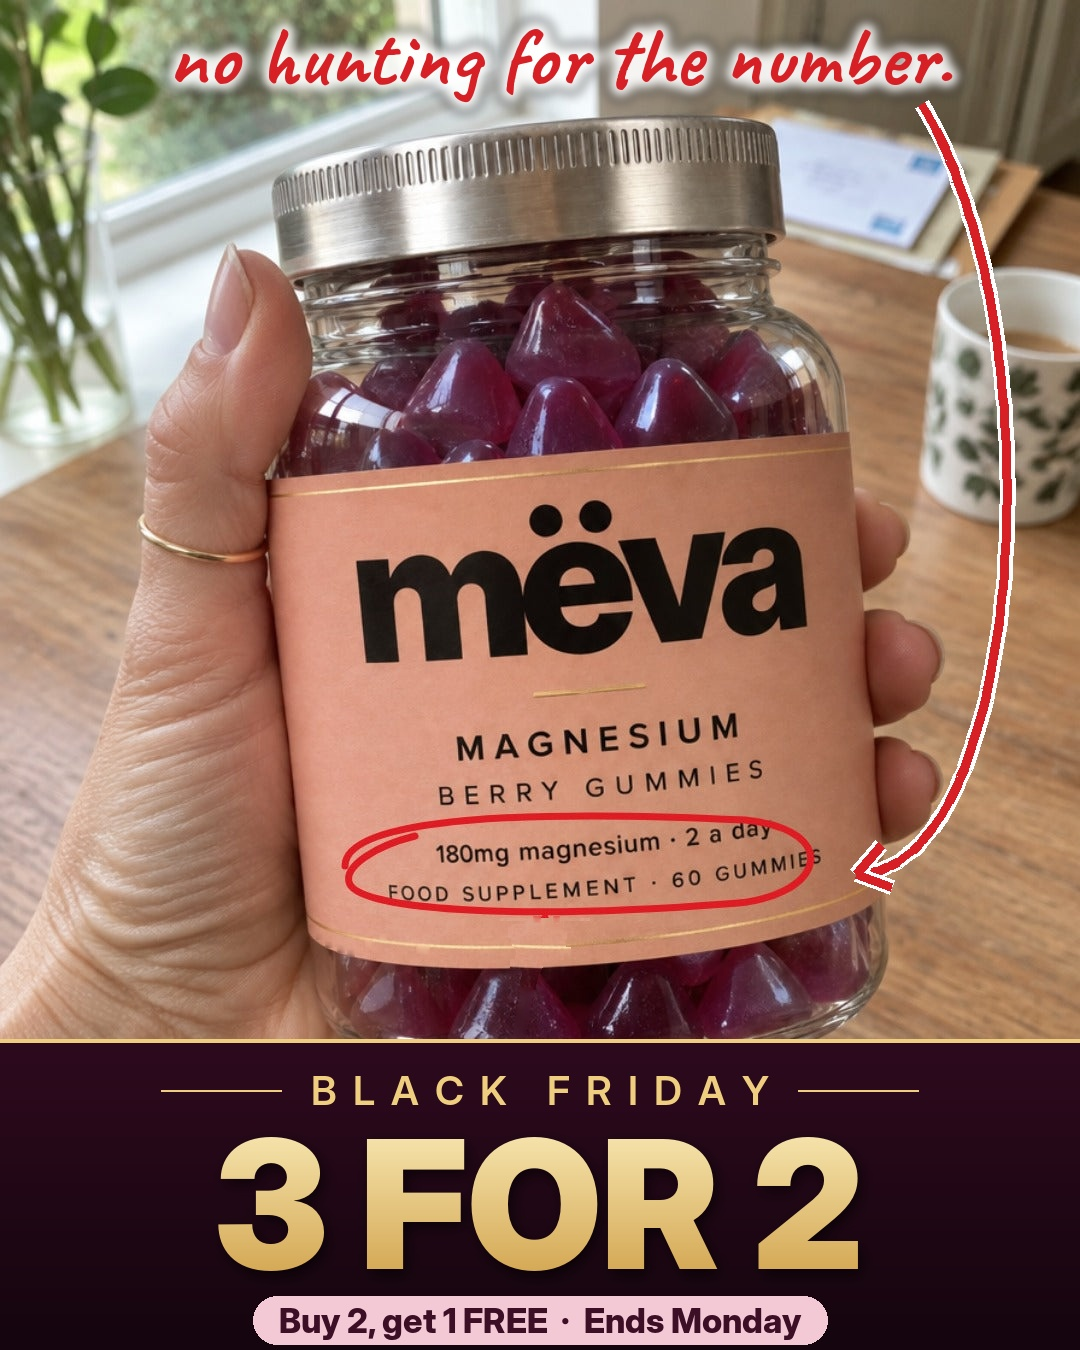
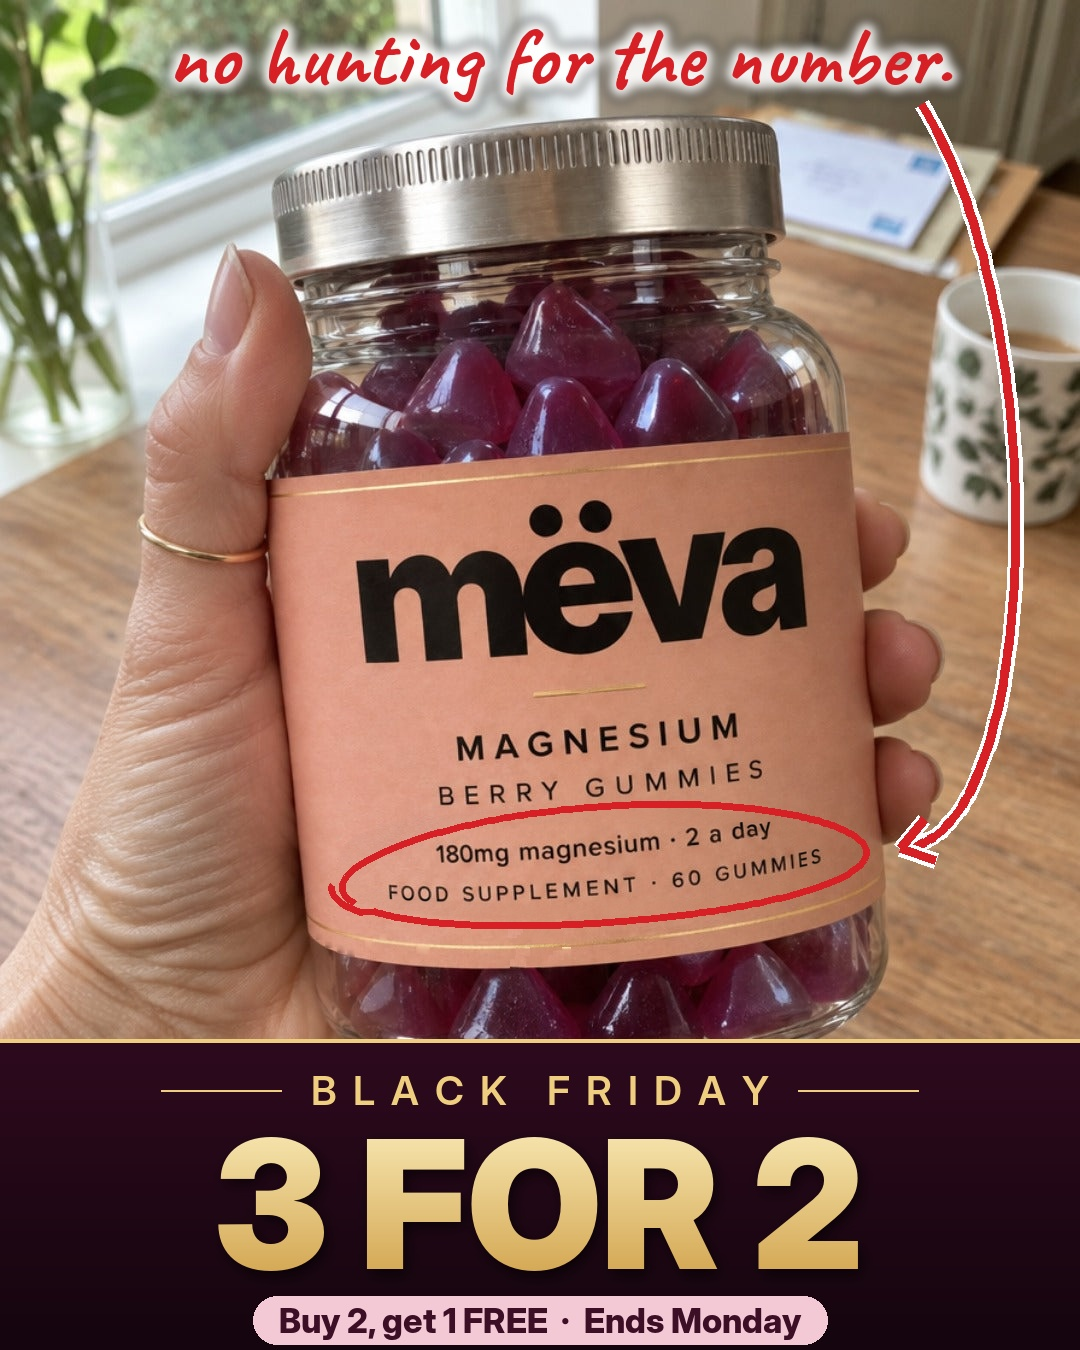
BF feed ads: redraw dose circle clear of the label text (old circle removed, label restored)
Claude-Session: https://claude.ai/code/session_01WXdKv1YfkNwKWVtsSuXmEc

Changed region(s): [[0.3056, 0.1244, 0.9472, 0.7156]]

diff --git a/meva/ads/2026-11-24-bf-overlays/noteB3.py b/meva/ads/2026-11-24-bf-overlays/noteB3.py
@@ -2,7 +2,7 @@ import numpy as np, cv2
 from PIL import Image, ImageDraw, ImageFont
 F='/usr/share/fonts/opentype/inter/'
 def font(n,s): return ImageFont.truetype(F+n,s)
-src=np.array(Image.open('win/feed.jpg').convert('RGB'))
+src=np.array(Image.open('win/feed_nocircle.png').convert('RGB'))
 r,g,b=[src[...,i].astype(int) for i in range(3)]
 red=((r>150)&(r-np.maximum(g,b)>70)).astype(np.uint8)
 H,W=red.shape
@@ -39,9 +39,20 @@ glow=glow.filter(ImageFilter.GaussianBlur(6))
 out.alpha_composite(glow)
 td.text((TX,TY),txt,font=cf,fill=RED)
 out.alpha_composite(tl)
+# --- new hand-drawn circle around the dose text (clear of the letters)
+import math as _m
+_cx,_cy,_a,_b,_rot=604,866,262,58,_m.radians(-4)
+_pts=[]
+for i in range(0,381):
+    t=_m.radians(-200+i)          # a bit more than one turn, like a hand-drawn loop
+    rr=1+0.025*_m.sin(t*3)+ (0.04 if i>350 else 0)
+    x=_a*rr*_m.cos(t); y=_b*rr*_m.sin(t)
+    _pts.append((_cx+x*_m.cos(_rot)-y*_m.sin(_rot), _cy+x*_m.sin(_rot)+y*_m.cos(_rot)))
+_d=ImageDraw.Draw(out)
+_d.line(_pts,fill=(214,32,38,255),width=7,joint='curve')
 d=ImageDraw.Draw(out)
 # arrow: from the end of the note, sweeping down the right side (outside the jar) into the circle
-P=[(TX+tw-30,TY+100),(1060,330),(1025,874),(856,874)]
+P=[(TX+tw-30,TY+100),(1060,330),(1040,850),(900,848)]
 pts=[]
 for i in range(81):
     t=i/80

diff --git a/meva/ads/2026-11-24-bf-overlays/noteGold.py b/meva/ads/2026-11-24-bf-overlays/noteGold.py
@@ -2,7 +2,7 @@ import numpy as np, cv2
 from PIL import Image, ImageDraw, ImageFont
 F='/usr/share/fonts/opentype/inter/'
 def font(n,s): return ImageFont.truetype(F+n,s)
-src=np.array(Image.open('win/feed.jpg').convert('RGB'))
+src=np.array(Image.open('win/feed_nocircle.png').convert('RGB'))
 r,g,b=[src[...,i].astype(int) for i in range(3)]
 red=((r>150)&(r-np.maximum(g,b)>70)).astype(np.uint8)
 H,W=red.shape
@@ -39,9 +39,20 @@ glow=glow.filter(ImageFilter.GaussianBlur(6))
 out.alpha_composite(glow)
 td.text((TX,TY),txt,font=cf,fill=RED)
 out.alpha_composite(tl)
+# --- new hand-drawn circle around the dose text (clear of the letters)
+import math as _m
+_cx,_cy,_a,_b,_rot=604,866,262,58,_m.radians(-4)
+_pts=[]
+for i in range(0,381):
+    t=_m.radians(-200+i)          # a bit more than one turn, like a hand-drawn loop
+    rr=1+0.025*_m.sin(t*3)+ (0.04 if i>350 else 0)
+    x=_a*rr*_m.cos(t); y=_b*rr*_m.sin(t)
+    _pts.append((_cx+x*_m.cos(_rot)-y*_m.sin(_rot), _cy+x*_m.sin(_rot)+y*_m.cos(_rot)))
+_d=ImageDraw.Draw(out)
+_d.line(_pts,fill=(214,32,38,255),width=7,joint='curve')
 d=ImageDraw.Draw(out)
 # arrow: from the end of the note, sweeping down the right side (outside the jar) into the circle
-P=[(TX+tw-30,TY+100),(1060,330),(1025,874),(856,874)]
+P=[(TX+tw-30,TY+100),(1060,330),(1040,850),(900,848)]
 pts=[]
 for i in range(81):
     t=i/80

diff --git a/meva/ads/2026-11-24-bf-overlays/ellipse_snip.py b/meva/ads/2026-11-24-bf-overlays/ellipse_snip.py
@@ -1,0 +1,11 @@
+# --- new hand-drawn circle around the dose text (clear of the letters)
+import math as _m
+_cx,_cy,_a,_b,_rot=604,866,262,58,_m.radians(-4)
+_pts=[]
+for i in range(0,381):
+    t=_m.radians(-200+i)          # a bit more than one turn, like a hand-drawn loop
+    rr=1+0.025*_m.sin(t*3)+ (0.04 if i>350 else 0)
+    x=_a*rr*_m.cos(t); y=_b*rr*_m.sin(t)
+    _pts.append((_cx+x*_m.cos(_rot)-y*_m.sin(_rot), _cy+x*_m.sin(_rot)+y*_m.cos(_rot)))
+_d=ImageDraw.Draw(out)
+_d.line(_pts,fill=(214,32,38,255),width=7,joint='curve')
